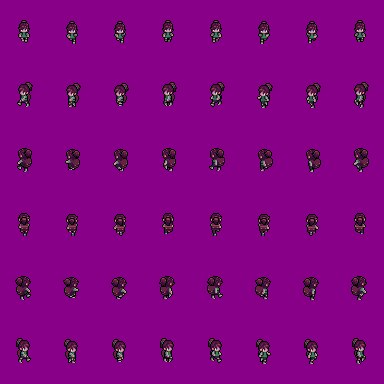
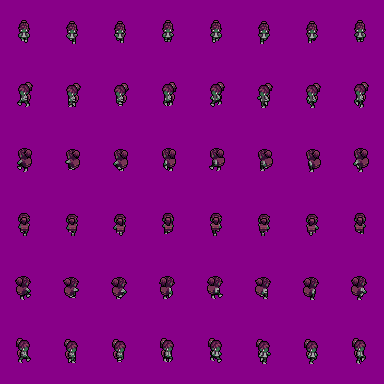
improve palette, add hud weapons

diff --git a/src/game.c b/src/game.c
@@ -19,12 +19,19 @@
 // #define GAME_COLLISION_DEBUG
 
 #define HUD_SIZE_Y 16
+#define HUD_WEAPON_SIZE_X 48
+#define HUD_WEAPON_SIZE_Y 15
+
 #define MAP_TILES_X 32
 #define MAP_TILES_Y 32
 #define MAP_TILE_SHIFT 4
 #define MAP_TILE_SIZE  (1 << MAP_TILE_SHIFT)
 #define GAME_BPP 5
-#define SPRITE_CHANNEL_CURSOR 4
+#define SPRITE_CHANNEL_CURSOR 0
+
+#define COLOR_HUD_BG 6
+#define COLOR_BAR_BG 10
+#define COLOR_RED 16
 
 #define COLLISION_SIZE_X 8
 #define COLLISION_SIZE_Y 8
@@ -46,7 +53,7 @@
 #define ENEMY_HEALTH_MAX 20
 #define ENEMY_SPEED 1
 
-#define ENEMY_COUNT 30
+#define ENEMY_COUNT 5
 #define PROJECTILE_COUNT 20
 #define PROJECTILE_LIFETIME 25
 #define PROJECTILE_SPEED 5
@@ -123,6 +130,7 @@ static UBYTE *s_pBackPlanes;
 static tSimpleBufferManager *s_pBufferHud;
 static tBitMap *s_pTileset;
 static tBitMap *s_pBmCrosshair;
+static tBitMap *s_pHudWeapons;
 static tRandManager g_sRand;
 static tSprite *s_pSpriteCursor;
 
@@ -392,10 +400,10 @@ static void hudProcess(void) {
 	UWORD uwCurrentHealth = s_sPlayer.wHealth;
 	if(s_uwHudHealth != uwCurrentHealth) {
 		if(uwCurrentHealth > s_uwHudHealth) {
-			blitRect(s_pBufferHud->pBack, 200 + s_uwHudHealth, 10, uwCurrentHealth - s_uwHudHealth, 4, 26);
+			blitRect(s_pBufferHud->pBack, 200 + s_uwHudHealth, 10, uwCurrentHealth - s_uwHudHealth, 4, COLOR_RED);
 		}
 		else {
-			blitRect(s_pBufferHud->pBack, 200 + uwCurrentHealth, 10, s_uwHudHealth - uwCurrentHealth, 4, 3);
+			blitRect(s_pBufferHud->pBack, 200 + uwCurrentHealth, 10, s_uwHudHealth - uwCurrentHealth, 4, COLOR_BAR_BG);
 		}
 		s_uwHudHealth = uwCurrentHealth;
 	}
@@ -404,6 +412,7 @@ static void hudProcess(void) {
 static void playerSetWeapon(tWeaponKind eWeaponKind) {
 	s_sPlayer.eWeapon = eWeaponKind;
 	// TOOD: set ammo
+	blitCopyAligned(s_pHudWeapons, 0, eWeaponKind * HUD_WEAPON_SIZE_Y, s_pBufferHud->pBack, 0, 0, HUD_WEAPON_SIZE_X, HUD_WEAPON_SIZE_Y);
 }
 
 __attribute__((always_inline))
@@ -530,6 +539,7 @@ static void gameStart(void) {
 static void gameGsCreate(void) {
 	logBlockBegin("gameGsCreate()");
 	s_pTileset = bitmapCreateFromPath("data/tiles.bm", 0);
+	s_pHudWeapons = bitmapCreateFromPath("data/weapons.bm", 0);
 
 	ULONG ulRawCopSize = 16 + simpleBufferGetRawCopperlistInstructionCount(GAME_BPP) * 2;
 	s_pView = viewCreate(0,
@@ -566,7 +576,7 @@ static void gameGsCreate(void) {
 		TAG_SIMPLEBUFFER_COPLIST_OFFSET, ulCopOffset,
 	TAG_END);
 
-	blitRect(s_pBufferHud->pBack, 0, 0, 320, HUD_SIZE_Y, 15);
+	blitRect(s_pBufferHud->pBack, 0, 0, 320, HUD_SIZE_Y, COLOR_HUD_BG);
 
 	s_pPristineBuffer = bitmapCreate(
 		bitmapGetByteWidth(s_pBufferMain->pBack) * 8,
@@ -907,6 +917,7 @@ static void gameGsDestroy(void) {
 
 	viewDestroy(s_pView);
 	bitmapDestroy(s_pPristineBuffer);
+	bitmapDestroy(s_pHudWeapons);
 	bitmapDestroy(s_pTileset);
 }
 
